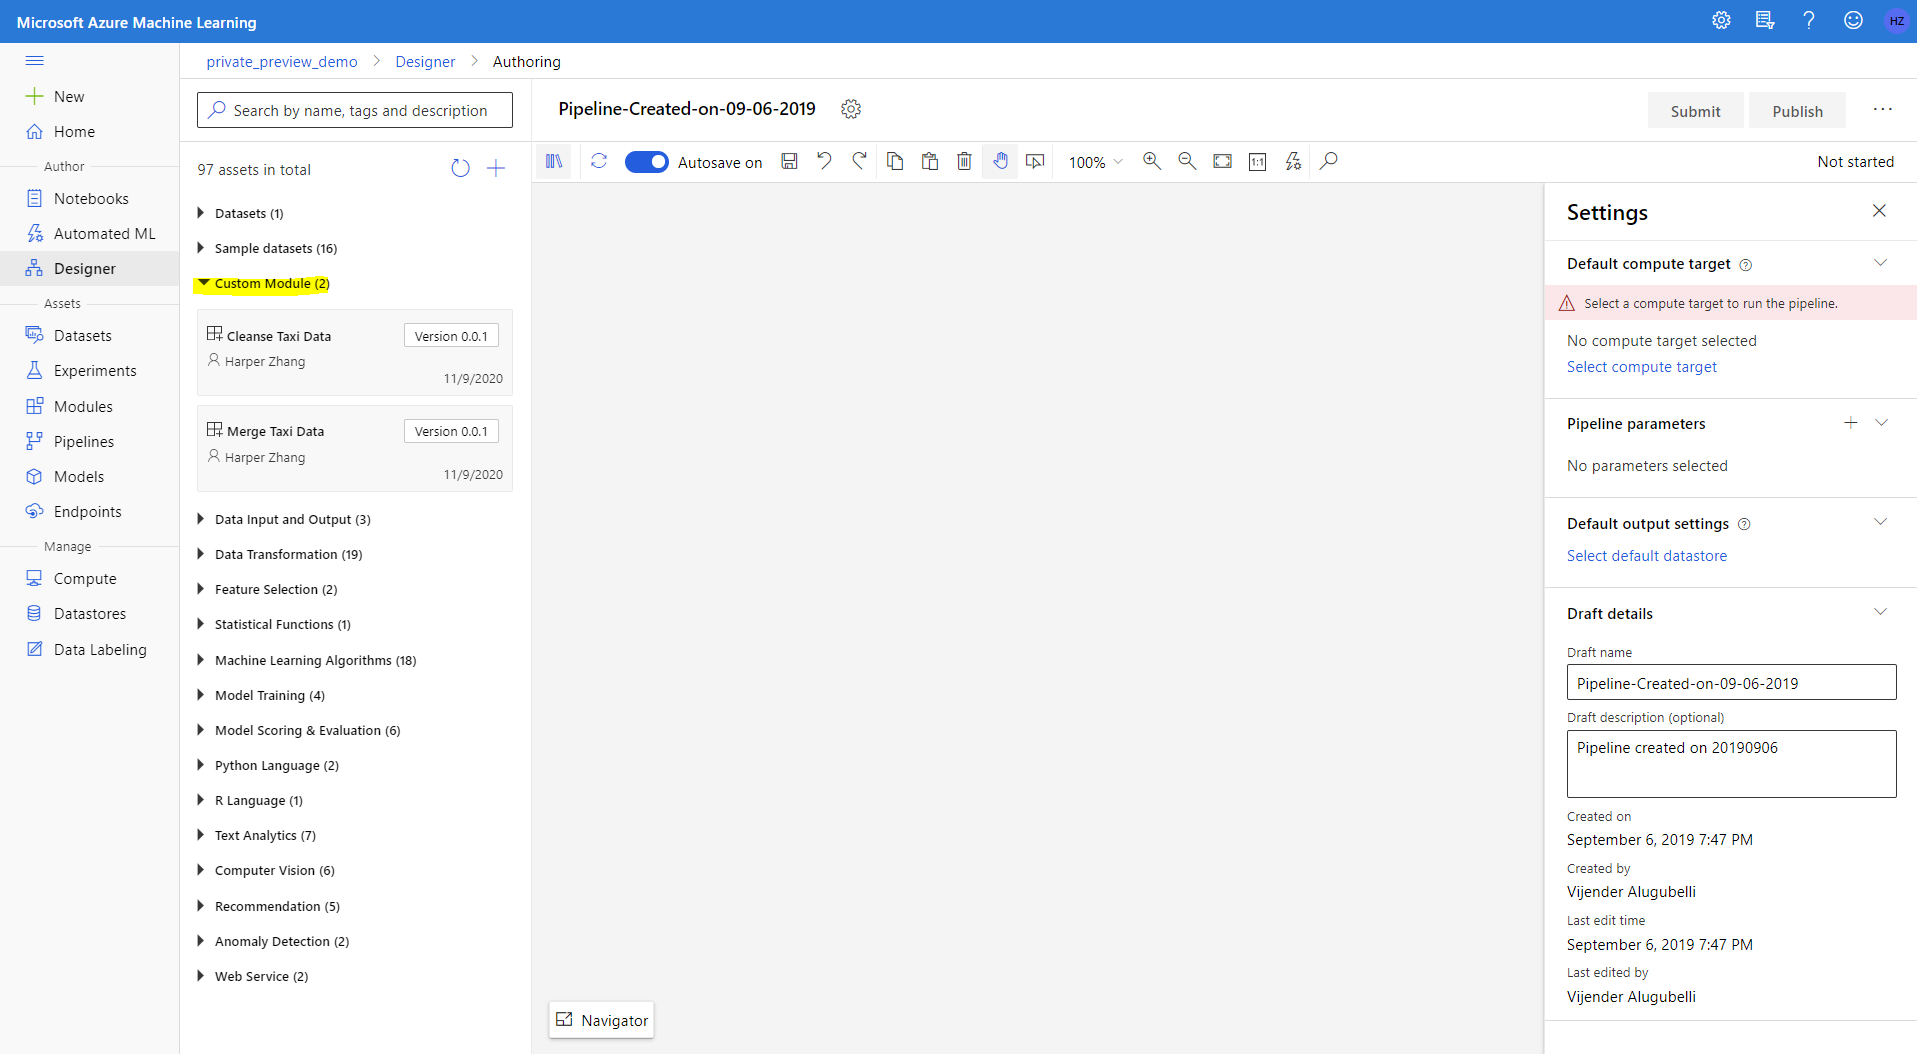
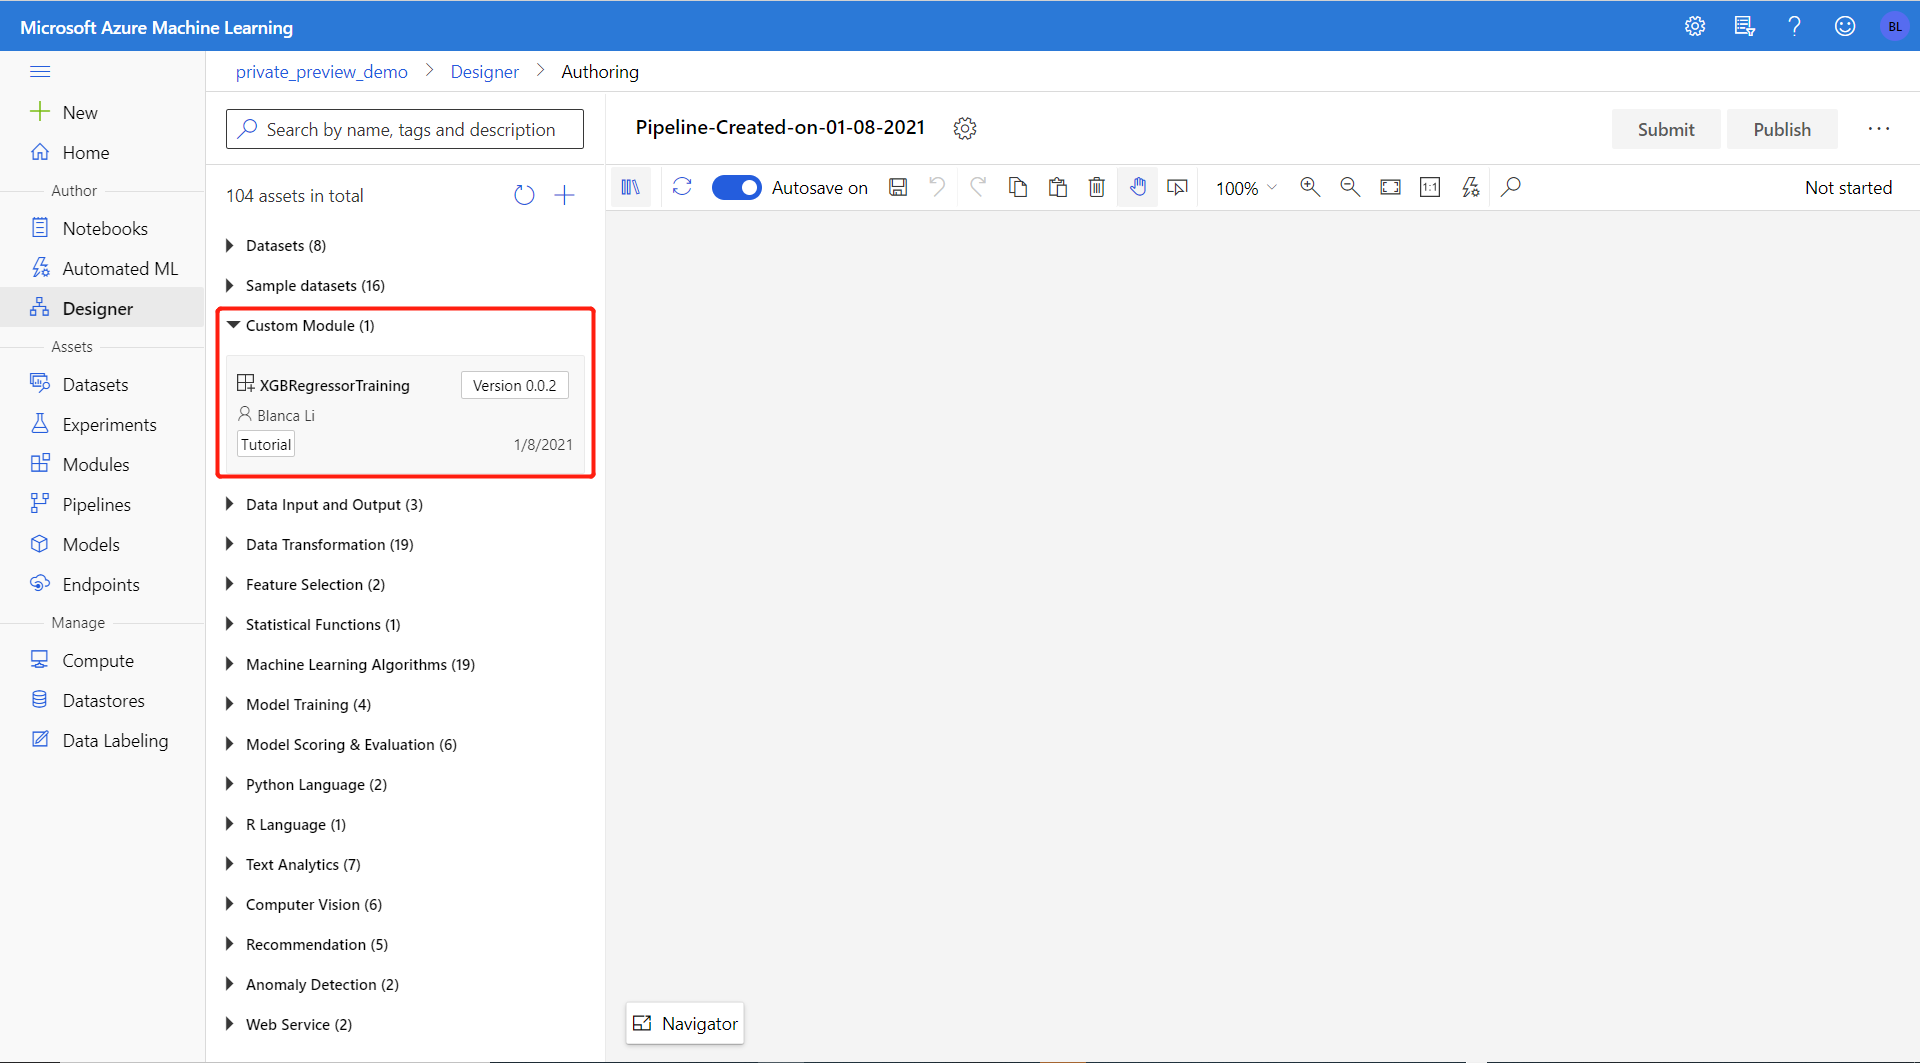
update tutorial1

diff --git a/tutorial/tutorial1-use-existing-components.md b/tutorial/tutorial1-use-existing-components.md
@@ -38,16 +38,19 @@ This tutorial will explain how to register component from the gallery with 3 sam
 
 1. Follow the wizard to finish the creation. 
     
-    After creation, you will see the component both in component tab and Designer module palette on the left of authoring page. 
-    [TODO] update screenshot
-    ![registered-component](./media/module-tree.PNG)
+    After creation, you will see the component both in component asset page for management.
+
+    ![component-page](./media/component-page.png)
+   
 
 
 ## 2. Use registered component to build pipeline in designer
 
 Azure Machine Learning designer is the UI interface to build machine learning pipelines. It provides an easy drag-n-drop interface to build, test and manage your machine learning pipelines. 
 
-1. Open a new pipeline in the designer.
+1. Open a new pipeline in the designer. You can find the registered component Designer module palette.
+
+    ![registered-component](./media/module-tree.png)
 
 1. Drag **Automobile price data (Raw)** dataset to canvas. You can find it under **Sample datasets** in the module tree to the left of canvas. You can right click the dataset and click **Visualize** to preview the data.
 
@@ -56,7 +59,7 @@ Azure Machine Learning designer is the UI interface to build machine learning pi
     |Module|Parameter|
     |---|---|
     |**Select Columns in Dataset**| Click **Edit column**, and select Include **Column types** -> **Numeric**. This is because this XGBRegressor component can only process numeric features.
-    |**Clean Missing Data**| Click **Edit column**, and select Include **All columns**. This is to clean missing data in the dataset.
+    |**Clean Missing Data**| Click **Edit column**, and select Include **All columns**. This is to clean missing data in the dataset. </br> **Cleaning mode**: select *Remove entire row* to remove rows containing missing value.
     |**Split Data**| **Splitting mode** is by default set as *Split Rows*. You can set split fraction of rows.
     |**XGBRegressorTraining**| **Label_Col**: Input *price* - the label column name.</br> **Model_FileName**: Input the output model name, e.g.*xgb_modelfile.json*.</br> **Learning_rate**: Set the learning rate of XGBRegressor, by default 0.1. </br> **Max_depth**: Maximum tree depth for base learners, by default 5.
 
